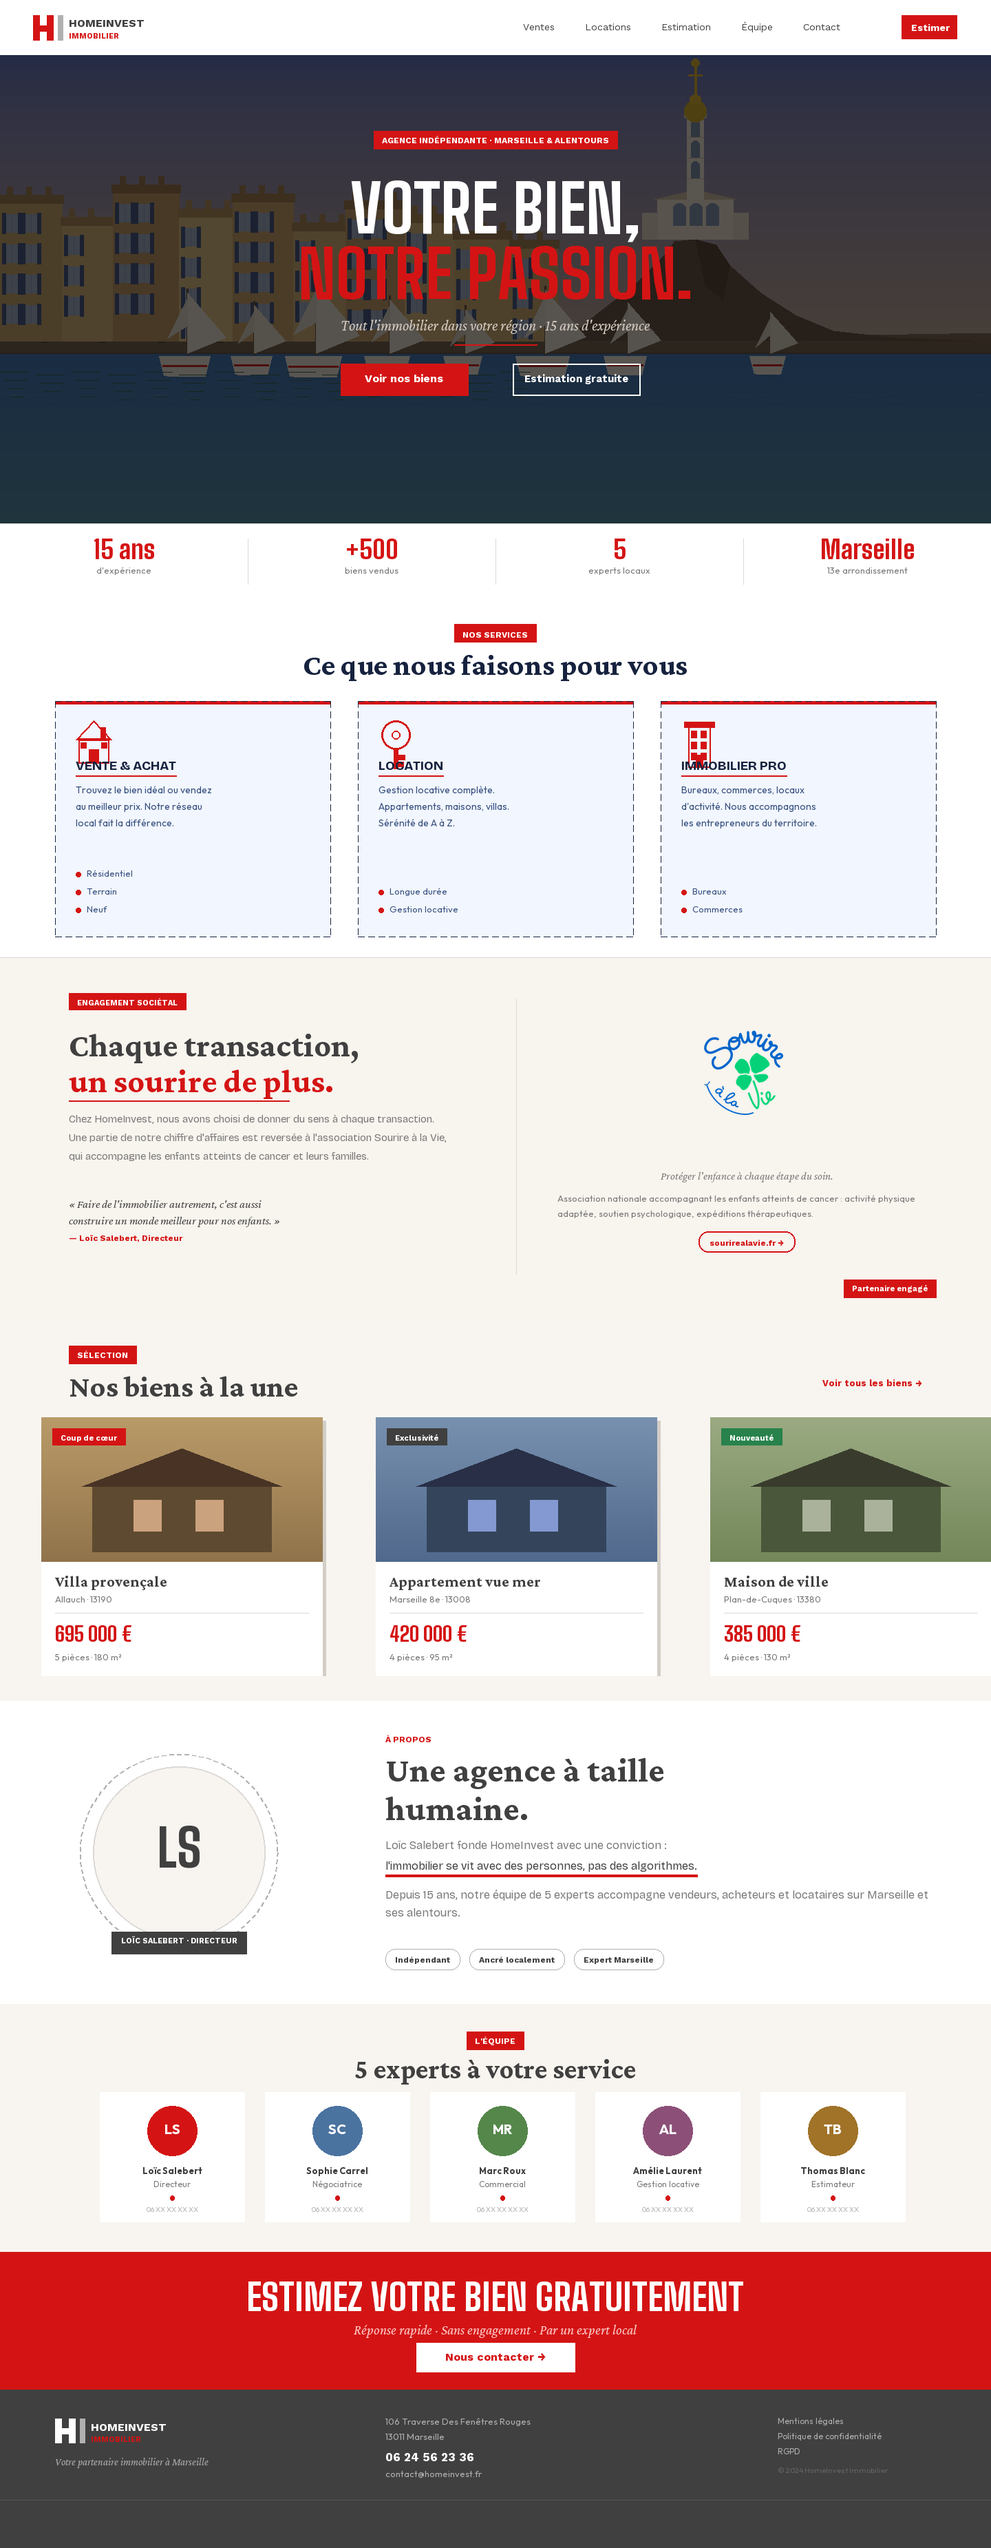
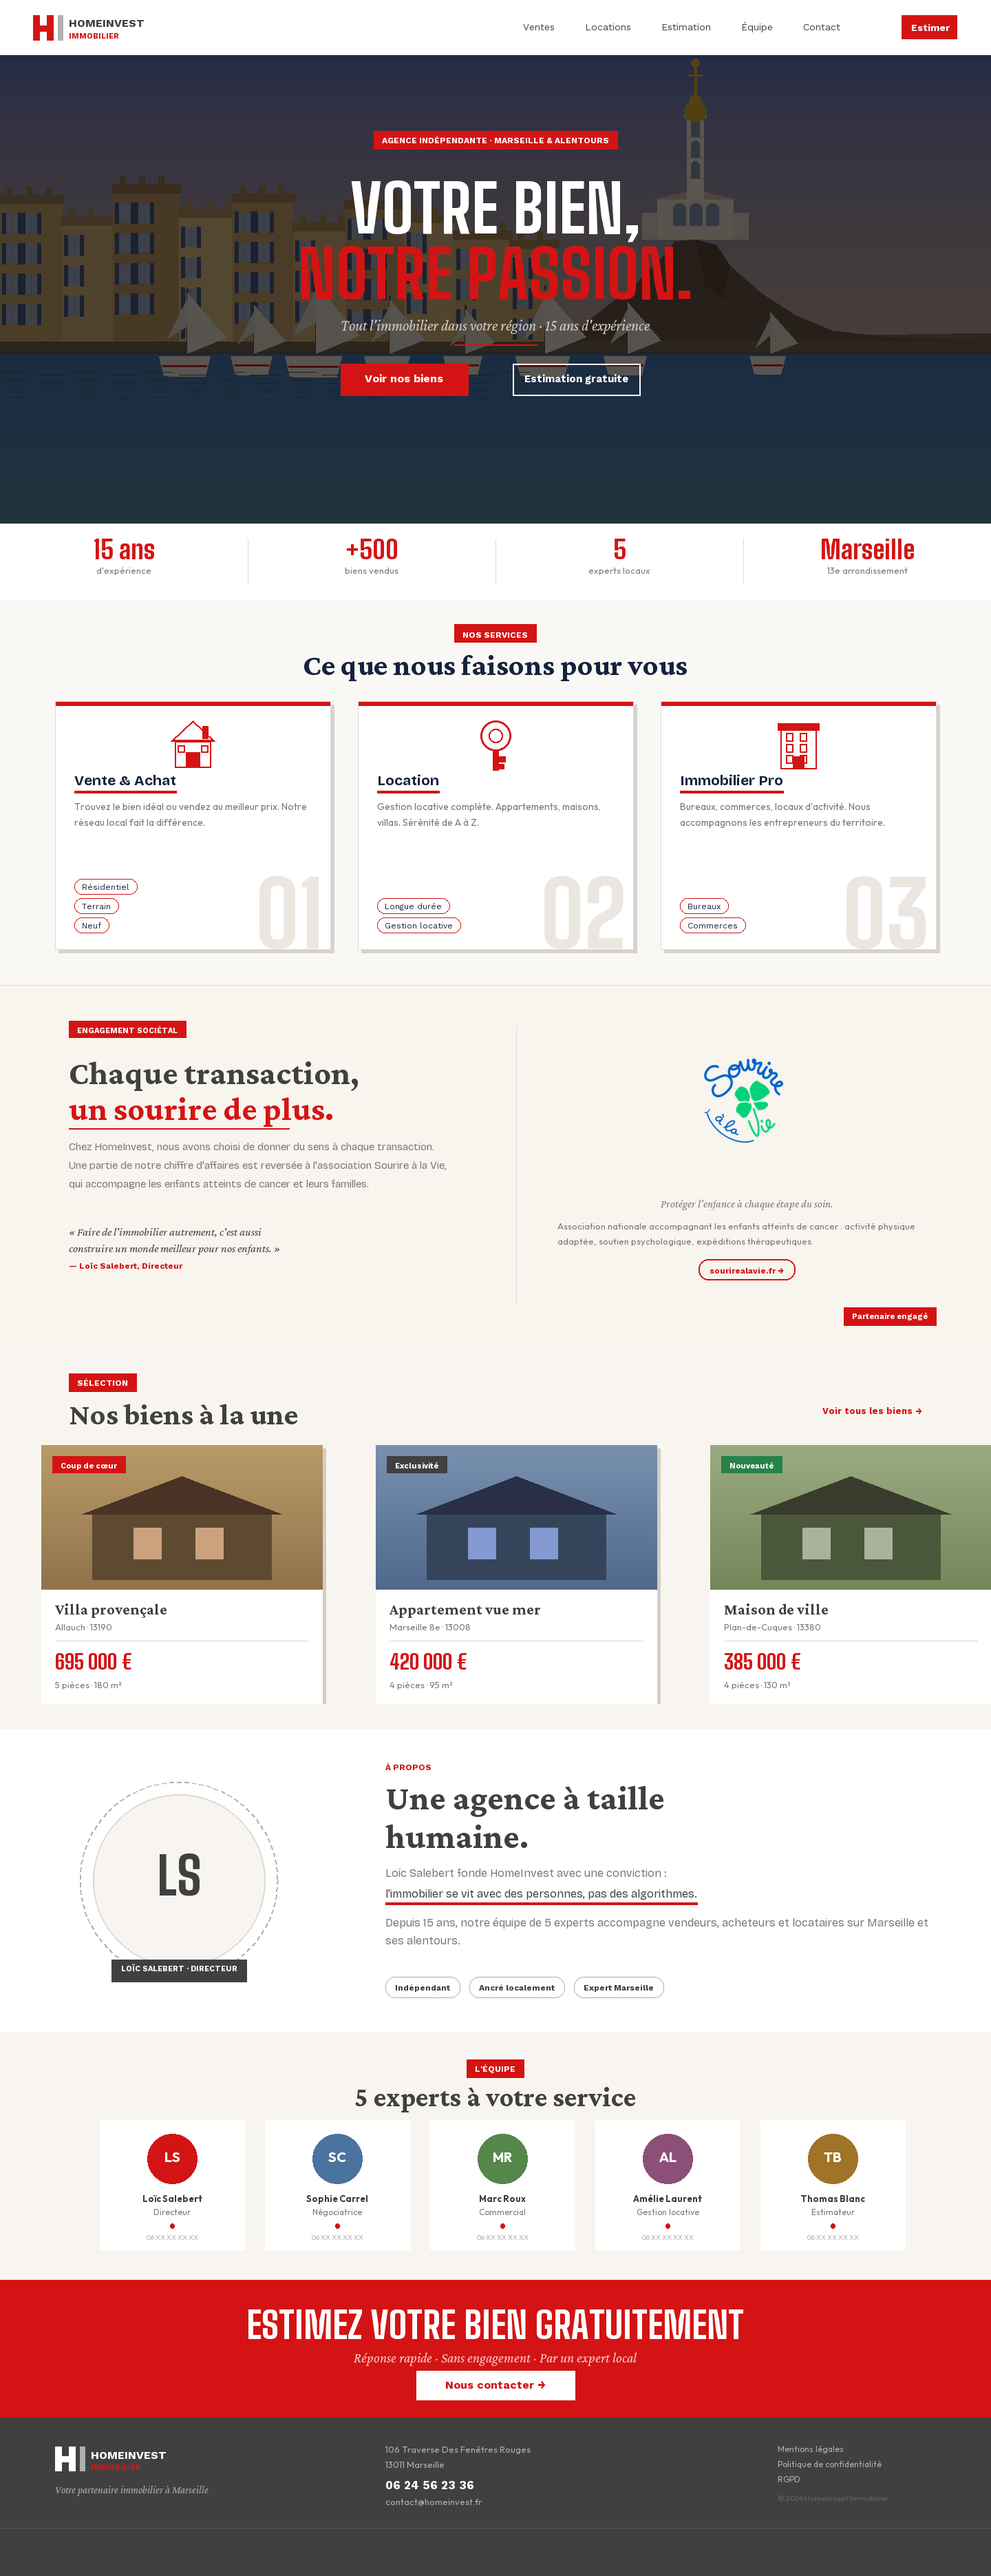
Redesign section Services : icônes épurées, numéros fantômes, tags pilules

diff --git a/generate_mockup.py b/generate_mockup.py
@@ -359,103 +359,121 @@ y += STATS_H
 
 
 # ══════════════════════════════════════════════════════════
-#  4. SERVICES — dark visual section (Scale with Ouss DNA)
+#  4. SERVICES
 # ══════════════════════════════════════════════════════════
-SERV_H  = 520
-NAVY    = (22, 34, 62)    # hero blue — used for typography
-draw.rectangle([0, y, W, y+SERV_H], fill=WHITE)
+SERV_H = 560
+NAVY   = (22, 34, 62)
+
+# Fond crème très léger pour différencier de la stats bar blanche
+draw.rectangle([0, y, W, y+SERV_H], fill=(250, 248, 245))
 draw.line([(0, y+SERV_H), (W, y+SERV_H)], fill=GRAY_PALE, width=1)
 
-# Section label + title
+# Label + titre section
 _lw = tlen("NOS SERVICES", WRKB(12)) + 24
 draw.rectangle([(W-_lw)//2, y+36, (W+_lw)//2, y+62], fill=RED)
 draw.text(((W - tlen("NOS SERVICES", WRKB(12)))//2, y+44),
           "NOS SERVICES", font=WRKB(12), fill=WHITE)
 cx_text("Ce que nous faisons pour vous", CRIB(44), y+70, NAVY)
 
-# Helper: dashed rect border
-def dashed_rect(x1, y1, x2, y2, col, lw=1, dash=9, gap=6):
-    step = dash + gap
-    for _x in range(x1, x2, step):
-        draw.line([(_x, y1), (min(_x+dash, x2), y1)], fill=col, width=lw)
-        draw.line([(_x, y2), (min(_x+dash, x2), y2)], fill=col, width=lw)
-    for _y in range(y1, y2, step):
-        draw.line([(x1, _y), (x1, min(_y+dash, y2))], fill=col, width=lw)
-        draw.line([(x2, _y), (x2, min(_y+dash, y2))], fill=col, width=lw)
-
-# Card layout
+# Mise en page cartes
 CARD_W = 400
 CGAP   = 40
-CMRG   = (W - 3*CARD_W - 2*CGAP) // 2   # 80px
+CMRG   = (W - 3*CARD_W - 2*CGAP) // 2
 
 svc_data = [
-    ("01", "VENTE & ACHAT",
-     "Trouvez le bien idéal ou vendez\nau meilleur prix. Notre réseau\nlocal fait la différence.",
-     ["Résidentiel", "Terrain", "Neuf"], False),
-    ("02", "LOCATION",
-     "Gestion locative complète.\nAppartements, maisons, villas.\nSérénité de A à Z.",
-     ["Longue durée", "Gestion locative"], True),
-    ("03", "IMMOBILIER PRO",
-     "Bureaux, commerces, locaux\nd'activité. Nous accompagnons\nles entrepreneurs du territoire.",
-     ["Bureaux", "Commerces"], False),
+    ("01", "Vente & Achat",
+     "Trouvez le bien idéal ou vendez au meilleur prix. Notre réseau local fait la différence.",
+     ["Résidentiel", "Terrain", "Neuf"]),
+    ("02", "Location",
+     "Gestion locative complète. Appartements, maisons, villas. Sérénité de A à Z.",
+     ["Longue durée", "Gestion locative"]),
+    ("03", "Immobilier Pro",
+     "Bureaux, commerces, locaux d'activité. Nous accompagnons les entrepreneurs du territoire.",
+     ["Bureaux", "Commerces"]),
 ]
 
-for i, (num, title, desc, tags, featured) in enumerate(svc_data):
-    cx_c = CMRG + i * (CARD_W + CGAP)
-    # All cards same height — equal, no hierarchy
-    cy_top, cy_bot = y + 148, y + 490
-    c_bg = (242, 246, 254)   # very light blue-white for all cards
+for i, (num, title, desc, tags) in enumerate(svc_data):
+    cx_c   = CMRG + i * (CARD_W + CGAP)
+    cy_top = y + 148
+    cy_bot = y + 508
 
-    # Card background + red top accent bar
-    draw.rectangle([cx_c, cy_top, cx_c+CARD_W, cy_bot], fill=c_bg)
-    draw.rectangle([cx_c, cy_top, cx_c+CARD_W, cy_top+4], fill=RED)
-    # Navy dashed border
-    dashed_rect(cx_c, cy_top, cx_c+CARD_W, cy_bot, NAVY, lw=1)
+    # Ombre portée
+    draw.rectangle([cx_c+5, cy_top+5, cx_c+CARD_W+5, cy_bot+5], fill=(215, 210, 204))
+    # Fond carte blanc
+    draw.rectangle([cx_c, cy_top, cx_c+CARD_W, cy_bot], fill=WHITE)
+    # Barre rouge en haut (6px)
+    draw.rectangle([cx_c, cy_top, cx_c+CARD_W, cy_top+6], fill=RED)
+    # Bordure fine grise
+    draw.rectangle([cx_c, cy_top, cx_c+CARD_W, cy_bot], outline=GRAY_PALE, width=1)
 
-    # Geometric icon (red, top-left)
-    ix, iy_i = cx_c + 30, cy_top + 28
+    # Numéro fantôme en fond (Scale with Ouss DNA)
+    _nf = BIG(130)
+    _nw = tlen(num, _nf)
+    _ghost_img = Image.new("RGBA", (_nw+10, 135), (0,0,0,0))
+    ImageDraw.Draw(_ghost_img).text((4, 0), num, font=_nf, fill=(235,230,224,255))
+    img.paste(_ghost_img, (cx_c + CARD_W - _nw - 14, cy_bot - 130), _ghost_img)
+    draw = ImageDraw.Draw(img)
 
-    if i == 0:  # House
-        draw.polygon([(ix, iy_i+28), (ix+26, iy_i), (ix+52, iy_i+28)],
+    # ── Icône centrée (outline rouge, style épuré) ──
+    icx  = cx_c + CARD_W // 2   # centre horizontal de la carte
+    iy_i = cy_top + 28           # top de l'icône
+
+    if i == 0:  # Maison — outline épuré
+        # Toit
+        draw.polygon([(icx-32, iy_i+30), (icx, iy_i), (icx+32, iy_i+30)],
                      outline=RED, width=3)
-        draw.rectangle([ix+4, iy_i+28, ix+48, iy_i+62], outline=RED, width=2)
-        draw.rectangle([ix+19, iy_i+42, ix+33, iy_i+62], fill=RED)
-        draw.rectangle([ix+7,  iy_i+32, ix+15, iy_i+40], fill=RED)
-        draw.rectangle([ix+37, iy_i+32, ix+45, iy_i+40], fill=RED)
-        draw.rectangle([ix+36, iy_i+10, ix+43, iy_i+26], fill=RED)
-    elif i == 1:  # Key
-        draw.ellipse([ix+4, iy_i, ix+46, iy_i+42], outline=RED, width=3)
-        draw.ellipse([ix+15, iy_i+11, ix+35, iy_i+31], fill=c_bg)
-        draw.ellipse([ix+19, iy_i+15, ix+31, iy_i+27], outline=RED, width=2)
-        draw.rectangle([ix+22, iy_i+42, ix+28, iy_i+70], fill=RED)
-        draw.rectangle([ix+28, iy_i+50, ix+38, iy_i+57], fill=RED)
-        draw.rectangle([ix+28, iy_i+60, ix+36, iy_i+67], fill=RED)
-    else:  # Building
-        draw.rectangle([ix+10, iy_i+8, ix+42, iy_i+68], outline=RED, width=2)
-        draw.rectangle([ix+4,  iy_i+2, ix+48, iy_i+10], fill=RED)
-        for _row in range(3):
-            for _col in range(2):
-                draw.rectangle([ix+14+_col*14, iy_i+15+_row*16,
-                                 ix+22+_col*14, iy_i+25+_row*16], fill=RED)
-        draw.rectangle([ix+21, iy_i+50, ix+31, iy_i+68], fill=RED)
+        # Corps
+        draw.rectangle([icx-26, iy_i+30, icx+26, iy_i+68], outline=RED, width=2)
+        # Porte centrée
+        draw.rectangle([icx-10, iy_i+46, icx+10, iy_i+68], fill=RED)
+        # Fenêtres
+        draw.rectangle([icx-22, iy_i+36, icx-12, iy_i+46], outline=RED, width=2)
+        draw.rectangle([icx+12, iy_i+36, icx+22, iy_i+46], outline=RED, width=2)
+        # Cheminée
+        draw.rectangle([icx+14, iy_i+8, icx+22, iy_i+26], fill=RED)
 
-    # Title
-    draw.text((cx_c+30, cy_top+82), title, font=BRICB(19), fill=NAVY)
-    draw.line([(cx_c+30, cy_top+108), (cx_c+30+tlen(title, BRICB(19)), cy_top+108)],
-              fill=RED, width=2)
+    elif i == 1:  # Clé — élégante
+        # Anneau
+        draw.ellipse([icx-22, iy_i, icx+22, iy_i+44], outline=RED, width=3)
+        draw.ellipse([icx-10, iy_i+12, icx+10, iy_i+32], outline=RED, width=2)
+        # Tige
+        draw.rectangle([icx-4, iy_i+44, icx+4, iy_i+72], fill=RED)
+        # Dents
+        draw.rectangle([icx+4,  iy_i+52, icx+14, iy_i+60], fill=RED)
+        draw.rectangle([icx+4,  iy_i+63, icx+12, iy_i+70], fill=RED)
 
-    # Description lines
-    _dy = cy_top + 120
-    for _line in desc.split("\n"):
-        draw.text((cx_c+30, _dy), _line, font=OUTR(14), fill=(55, 80, 128))
-        _dy += 24
+    else:  # Immeuble — épuré
+        # Corps principal
+        draw.rectangle([icx-26, iy_i+12, icx+26, iy_i+70], outline=RED, width=2)
+        # Fronton
+        draw.rectangle([icx-30, iy_i+4, icx+30, iy_i+14], fill=RED)
+        # Grille de fenêtres 3×2
+        for _r in range(3):
+            for _c in range(2):
+                draw.rectangle([icx-18+_c*20, iy_i+18+_r*16,
+                                 icx-8+_c*20,  iy_i+30+_r*16],
+                                outline=RED, width=2)
+        # Porte
+        draw.rectangle([icx-8, iy_i+52, icx+8, iy_i+70], fill=RED)
 
-    # Bullet tags (auto-positioned so last tag stays 18px above card bottom)
-    _ty = cy_bot - (len(tags) * 26 + 22)
+    # ── Titre (bien en dessous de l'icône) ──
+    title_y = cy_top + 102
+    draw.text((cx_c + 28, title_y), title, font=BRICB(21), fill=NAVY)
+    tl_w = tlen(title, BRICB(21))
+    draw.rectangle([cx_c+28, title_y+28, cx_c+28+tl_w, title_y+31], fill=RED)
+
+    # ── Description (wrap) ──
+    wrap_text(desc, OUTR(14), CARD_W-56,
+              draw_at=True, x=cx_c+28, y=title_y+42, color=GRAY_MED, line_h=23)
+
+    # ── Tags en bas ──
+    _ty = cy_bot - (len(tags) * 28 + 18)
     for tag in tags:
-        draw.ellipse([cx_c+30, _ty+6, cx_c+37, _ty+13], fill=RED)
-        draw.text((cx_c+46, _ty), tag, font=OUTR(13), fill=(55, 80, 128))
-        _ty += 26
+        _tw2 = tlen(tag, WRKR(12)) + 22
+        draw.rounded_rectangle([cx_c+28, _ty, cx_c+28+_tw2, _ty+22],
+                                radius=11, outline=RED, width=1)
+        draw.text((cx_c+39, _ty+4), tag, font=WRKR(12), fill=NAVY)
+        _ty += 28
 
 y += SERV_H
 
